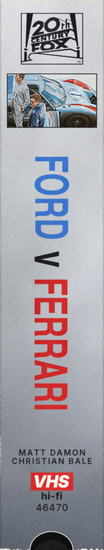
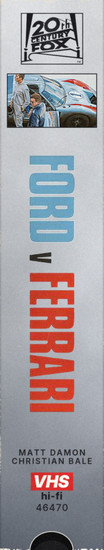
2020 shelf, batch 2: titles lifted or cut off the posters
Claude-Session: https://claude.ai/code/session_01RnhGoM3q9rJViPw2yFGMgc

Changed region(s): [[0.2596, 0.2782, 0.7212, 0.7727]]

diff --git a/spinegen/tapes.py b/spinegen/tapes.py
@@ -3425,75 +3425,75 @@ std('alanis-2017', ('grad', [(0, (200, 70, 80)), (.6, (120, 30, 40)), (1, (30, 8
     photo=ph(.45, .15, .35, 1.0), pb=WHT, lg=WHT, lw=.6, order='LPTCF', credit=['AN ANAHÍ BERNERI', 'FILM'], ccol=WHT,
     ft='a', vbox=WHT, vink=(120, 30, 40), fcol=(240, 210, 214), fin=MINT)
 
-# Notting Hill (1999): a real rental, the poster's white, navy and blue serif (typeset), Anna's face
+# Notting Hill (1999): a real rental, the poster's white, its navy and blue serif Notting Hill cut off it, Anna's face
 std('notting-hill-1999', ('grad', [(0, (246, 246, 248)), (.6, (226, 228, 234)), (1, (170, 174, 186))]), (30, 40, 110),
-    TT([('Notting', (30, 40, 110)), ('Hill', (40, 90, 190))], 'schb', 84, sp=.2),
+    LC([(0.132, 0.105, 0.826, 0.199)], 84, cuts=[key_cut(lambda a: (a[..., 2] > a[..., 0] + .2) & (_lum(a) < .65))]),
     photo=ph(.45, .4, .5, 1.0), pb=(30, 40, 110), lg=(30, 40, 110), lw=.6, order='LPTCF', credit=['JULIA ROBERTS', 'HUGH GRANT'], ccol=(30, 40, 110),
     ft='a', vbox=(30, 40, 110), fcol=(30, 40, 110), fin=RENTAL, seed=1999, over=[dot(262, ['ROM', 'COM'], (220, 60, 90), x=.72, d=62)])
 
-# Hearts and Minds (1974): an old tape, the poster's paper white, red HEARTS and black & MINDS (typeset), the woodcut (no logo file: its company in type)
+# Hearts and Minds (1974): an old tape, the poster's paper white, its red HEARTS and black & MINDS cut off it, the woodcut (no logo file: its company in type)
 std('hearts-and-minds-1974', ('grad', [(0, (238, 232, 222)), (.6, (220, 212, 198)), (1, (150, 140, 124))]), (20, 18, 16),
-    TT([('HEARTS', (200, 40, 34)), ('& MINDS', (20, 18, 16))], 'ter', 80, sp=.2),
+    LC([(0.214, 0.074, 0.783, 0.158), (0.221, 0.167, 0.774, 0.252)], 80, gapf=.25, valign='base', margin=0, cuts=[key_cut(lambda a: (a[..., 0] > .55) & (a[..., 1] < .35))] + [key_cut(lambda a: _lum(a) < .3)]),
     photo=ph(.5, .55, .6, 1.0), pb=(20, 18, 16), studio=['BBS PRODUCTIONS'], scol=(20, 18, 16), order='lPTCF', credit=['A DOCUMENTARY'], ccol=(20, 18, 16),
     ft='e', fcol=(20, 18, 16), fin=OLD, seed=1974)
 
-# The Barkley Marathons: forest dark with the poster's yellow border, the yellow heavy capitals (typeset), Laz at the gate (no company to name: left off)
+# The Barkley Marathons: forest dark with the poster's yellow border, its yellow THE BARKLEY MARATHONS block cut off it, Laz at the gate (no company to name: left off)
 std('the-barkley-marathons-the-race-that-eats-its-young-2014', ('grad', [(0, (60, 70, 40)), (.6, (24, 28, 16)), (1, (8, 10, 6))]), (240, 220, 40),
-    [T('THE BARKLEY MARATHONS', 'intbk', 54, (242, 222, 44), squeeze=.84), T('THE RACE THAT EATS ITS YOUNG', 'herb', 20, (242, 222, 44), track=.08)], tgap=8,
+    LC([(0.049, 0.028, 0.949, 0.337)], 200, cuts=[key_cut(lambda a: (a[..., 0] > .7) & (a[..., 1] > .6) & (a[..., 2] < .35))]), tgap=8,
     photo=ph(.8, .5, .3, 1.0), pb=(242, 222, 44), order='PTCF', credit=['A DOCUMENTARY'], ccol=(242, 222, 44),
     ft='a', vbox=(242, 222, 44), vink=(24, 28, 16), fcol=(200, 206, 190), fin=SLIP, under=[frame((242, 222, 44), 8, 1.6)])
 
-# The Lighthouse: storm grey, white serif spaced capitals (typeset), Ephraim at the head
+# The Lighthouse: storm grey, the white serif THE LIGHTHOUSE lifted off the poster, Ephraim at the head
 std('the-lighthouse-2019', ('grad', [(0, (120, 120, 120)), (.6, (50, 50, 50)), (1, (10, 10, 10))]), WHT,
-    [T('THE', 'ter', 30, WHT, track=.3), T('LIGHTHOUSE', 'ter', 80, WHT, track=.12)], tgap=8,
+    [L((0.405, 0.823, 0.597, 0.873), 30, WHT, mode='light'), L((0.045, 0.88, 0.956, 0.951), 80, WHT, mode='light')], tgap=8,
     photo=ph(.84, .45, .3, 1.0), pb=WHT, lg=WHT, lw=.6, order='LPTCF', credit=['ROBERT PATTINSON', 'WILLEM DAFOE'], ccol=WHT,
     ft='a', vbox=WHT, vink=(50, 50, 50), fcol=(200, 200, 200), fin=MINT)
 
-# Abducted in Plain Sight: the poster's red halftone, black slab capitals (typeset), Jan as a girl (no logo file: the label in type)
+# Abducted in Plain Sight: the poster's red halftone, its black slab capitals lifted, Jan as a girl (no logo file: the label in type)
 std('abducted-in-plain-sight-2017', ('grad', [(0, (230, 60, 50)), (.6, (190, 30, 30)), (1, (80, 10, 10))]), (20, 16, 16),
-    [T('ABDUCTED', 'bonb', 90, (20, 16, 16)), T('IN PLAIN SIGHT', 'bonb', 40, (20, 16, 16), track=.06)], tgap=8,
+    [L((0.037, 0.036, 0.972, 0.148), 90, (20, 16, 16), mode='key', key=(20, 16, 16), t=(60, 130)), L((0.118, 0.144, 0.942, 0.212), 40, (20, 16, 16), mode='key', key=(20, 16, 16), t=(60, 130))], tgap=8,
     photo=ph(.5, .55, .6, 1.0), pb=WHT, studio=['NETFLIX'], scol=WHT, order='lPTCF', credit=['A DOCUMENTARY'], ccol=WHT,
     ft='a', vbox=WHT, vink=(190, 30, 30), fcol=WHT, fin=MINT)
 
-# The Good Liar: the poster's black and white, the red condensed capitals (typeset), Betty and Roy
+# The Good Liar: the poster's black and white, its red condensed THE GOOD LIAR lifted (stacked there, one line here), Betty and Roy
 std('the-good-liar-2019', ('grad', [(0, (60, 60, 60)), (.6, (22, 22, 22)), (1, (6, 6, 6))]), (180, 30, 34),
-    T('THE GOOD LIAR', 'hcnb', 94, (190, 34, 38), squeeze=.72, bold=.8),
+    L([(0.05, 0.311, 0.333, 0.453), (0.055, 0.457, 0.441, 0.602), (0.058, 0.607, 0.381, 0.749)], 94, (190, 34, 38), mode='key', key=(160, 30, 36), t=(70, 150), gapf=.3),
     photo=ph(.62, .22, .45, 1.0), pb=(190, 34, 38), lg=WHT, lw=.6, order='LPTCF', credit=['HELEN MIRREN', 'IAN McKELLEN'], ccol=WHT,
     ft='a', vbox=(190, 34, 38), fcol=(200, 200, 200), fin=MINT)
 
-# Uncut Gems: black, the white condensed capitals (typeset), Howard with his rings
+# Uncut Gems: black, the white condensed Uncut Gems lifted off the poster, Howard with his rings
 std('uncut-gems-2019', ('grad', [(0, (40, 40, 44)), (.6, (14, 14, 16)), (1, (4, 4, 4))]), WHT,
-    T('Uncut Gems', 'hcnb', 100, WHT, squeeze=.8, bold=.6),
+    L((0.045, 0.124, 0.513, 0.194), 100, WHT, mode='light'),
     photo=ph(.5, .66, .35, 1.0), pb=(90, 200, 170), lg=WHT, lw=.6, order='LPTCF', credit=['ADAM SANDLER'], ccol=WHT,
     ft='a', vbox=(90, 200, 170), vink=(14, 14, 16), fcol=(190, 190, 196), fin=MINT, dotst=(['STAFF', 'PICK'], (90, 200, 170), (14, 14, 16)))
 
-# Ford v Ferrari: Le Mans morning grey, blue FORD and red FERRARI (typeset), the GT40
+# Ford v Ferrari: Le Mans morning grey, the poster's blue FORD and red FERRARI cut off it, the GT40
 std('ford-v-ferrari-2019', ('grad', [(0, (226, 228, 230)), (.6, (190, 194, 200)), (1, (90, 96, 106))]), (30, 30, 34),
-    TT([('FORD', (60, 120, 210)), ('v', (30, 30, 34)), ('FERRARI', (210, 40, 40))], 'hcnb', 92, sp=.2, squeeze=.8, bold=.6),
+    LC([(0.41, 0.588, 0.935, 0.657)], 92, cuts=[key_cut(lambda a: ((a[..., 2] > a[..., 0] + .1) & (_lum(a) < .8)) | ((a[..., 0] > .5) & (a[..., 1] < .35)) | (_lum(a) < .3))]),
     photo=ph(.5, .85, .8, .6), pb=(30, 30, 34), lg=(30, 30, 34), lw=.6, order='LPTCF', credit=['MATT DAMON', 'CHRISTIAN BALE'], ccol=(30, 30, 34),
     ft='a', vbox=(210, 40, 40), fcol=(30, 30, 34), fin=MINT)
 
-# Jojo Rabbit: the poster's red, the white condensed capitals on the black band (typeset), Jojo in his cap
+# Jojo Rabbit: the poster's red, white condensed capitals on a black band (typeset: on the poster the band is torn and tilted, and the cast stand over its ends), Jojo in his cap
 std('jojo-rabbit-2019', ('grad', [(0, (220, 40, 40)), (.6, (160, 20, 24)), (1, (50, 8, 8))]), WHT,
     T('JOJO RABBIT', 'hcnb', 90, WHT, squeeze=.74, bold=.6, box=((20, 18, 18), 10, 6)),
     photo=ph(.51, .26, .3, 1.0), pb=WHT, lg=WHT, lw=.6, order='LPTCF', credit=['A TAIKA WAITITI', 'FILM'], ccol=WHT,
     ft='a', vbox=WHT, vink=(160, 20, 24), fcol=(250, 220, 220), fin=MINT)
 
-# Won't You Be My Neighbor?: the poster's sky blue, white rounded capitals (typeset), Fred in his red cardigan
+# Won't You Be My Neighbor?: the poster's sky blue, its white rounded lettering lifted, Fred in his red cardigan
 std('won-t-you-be-my-neighbor-2018', ('grad', [(0, (40, 110, 210)), (.6, (20, 60, 150)), (1, (8, 20, 60))]), WHT,
-    [T("WON'T YOU BE MY", 'popb', 40, WHT), T('NEIGHBOR?', 'popb', 80, WHT)], tgap=8,
+    [L((0.062, 0.057, 0.836, 0.142), 40, WHT, mode='light'), L((0.239, 0.14, 0.937, 0.226), 80, WHT, mode='light')], tgap=8,
     photo=ph(.72, .33, .35, 1.0), pb=(220, 40, 40), lg=WHT, lw=.6, order='LPTCF', credit=['A DOCUMENTARY'], ccol=WHT,
     ft='a', vbox=(220, 40, 40), fcol=(210, 220, 240), fin=MINT)
 
-# A Rainy Day in New York: the umbrella's red on grey, white serif (typeset), the kiss under the umbrella (no logo file: its company in type)
+# A Rainy Day in New York: the umbrella's red on grey, the white serif title lifted off the umbrella, the kiss under it (no logo file: its company in type)
 std('a-rainy-day-in-new-york-2019', ('grad', [(0, (210, 50, 50)), (.6, (150, 30, 30)), (1, (60, 60, 64))]), WHT,
-    T('A Rainy Day in New York', 'ter', 66, WHT),
+    L((0.2, 0.43, 0.75, 0.68), 160, WHT, mode='light'),
     photo=ph(.65, .25, .5, 1.0), pb=WHT, studio=['GRAVIER', 'PRODUCTIONS'], scol=WHT, order='lPTCF', credit=['TIMOTHÉE CHALAMET', 'ELLE FANNING'], ccol=WHT,
     ft='a', vbox=WHT, vink=(150, 30, 30), fcol=(230, 220, 220), fin=MINT)
 
-# Little Women: Concord's dusk green, white spaced capitals (typeset), the March sisters at the window
+# Little Women: Concord's dusk green, the white hand-drawn LITTLE WOMEN lifted off the poster, the March sisters at the window
 std('little-women-2019', ('grad', [(0, (60, 90, 80)), (.6, (24, 36, 32)), (1, (8, 12, 10))]), WHT,
-    T('LITTLE WOMEN', 'her', 70, WHT, track=.2),
+    L((0.294, 0.717, 0.705, 0.881), 120, WHT, mode='light'),
     photo=ph(.5, .15, .5, 1.0), pb=WHT, lg=WHT, lw=.6, order='LPTCF', credit=['SAOIRSE RONAN', 'EMMA WATSON'], ccol=WHT,
     ft='a', vbox=WHT, vink=(24, 36, 32), fcol=(210, 220, 214), fin=MINT)
 
